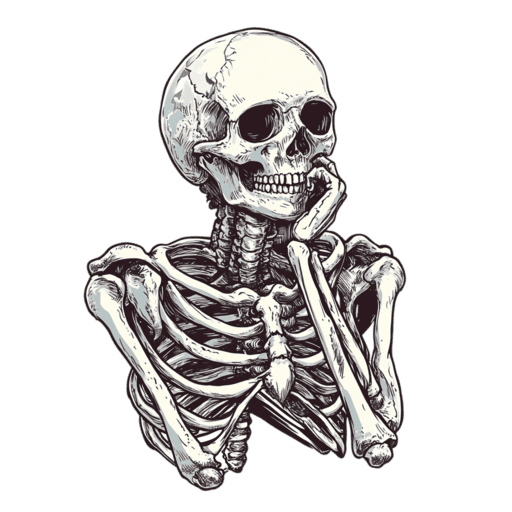
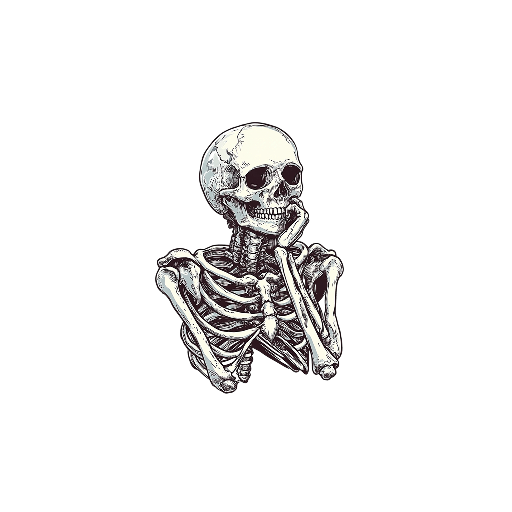
Adding timeOfDay & using transparent image as splash screen

Changed region(s): [[0.1562, 0.0312, 0.8125, 0.9688]]

diff --git a/app/index.tsx b/app/index.tsx
@@ -1,4 +1,3 @@
-
 import { Feather, FontAwesome6, Ionicons, MaterialCommunityIcons } from '@expo/vector-icons';
 import { LinearGradient } from 'expo-linear-gradient';
 import { useEffect, useRef, useState } from 'react';
@@ -45,6 +44,7 @@ const collapseScrollPadding = collapseHeight + 100
 export default function HomeScreen() {
     const [daysLeft, setDaysLeft] = useState(0)
     const [dateString, setDateString] = useState({ part1: "", part2: "" })
+    const [timeOfDay, setTimeOfDay] = useState<'morning' | 'afternoon' | 'evening' | ''>("")
     const scrollX = useSharedValue(SCREEN_WIDTH)
 
     const insets = useSafeAreaInsets()
@@ -213,19 +213,27 @@ export default function HomeScreen() {
             const difference = targetDate - nowTime;
 
             if (difference > 0) {
-                setDaysLeft(Math.floor(difference / (1000 * 60 * 60 * 24)));
+                setDaysLeft(Math.floor(difference / (1000 * 60 * 60 * 24)))
             } else {
-                setDaysLeft(0);
+                setDaysLeft(0)
             }
 
-            const dayName = daysOfWeek[now.getDay()];
-            const month = months[now.getMonth()];
-            const day = now.getDate();
-            const year = now.getFullYear();
+            const dayName = daysOfWeek[now.getDay()]
+            const month = months[now.getMonth()]
+            const day = now.getDate()
+            const year = now.getFullYear()
+            const hours = now.getHours()
 
-            const part1 = `${dayName} — ${month} ${day}${getOrdinalSuffix(day)} ${year}`;
-            setDateString({ part1, part2: " 📅" });
-        };
+            const part1 = `${dayName} — ${month} ${day}${getOrdinalSuffix(day)} ${year}`
+            setDateString({ part1, part2: " 📅" })
+            if (hours < 12) {
+                setTimeOfDay("morning")
+            } else if (hours < 18) {
+                setTimeOfDay("afternoon")
+            } else {
+                setTimeOfDay("evening")
+            }
+        }
 
         chatScrollViewRef.current?.scrollToEnd({ animated: false })
         notesScrollViewRef.current?.scrollToEnd({ animated: false })
@@ -282,9 +290,9 @@ export default function HomeScreen() {
                     
                     <Animated.View style={[styles.heroContainer, { top: insets.top + (0.47 * TOP_DASHBOARD_HEIGHT) }, contentOpacityStyle]}>
                         <View style={styles.greetingContainer}>
-                            <Text style={styles.greetingText}>Good morning, </Text>
+                            <Text style={styles.greetingText}>Good {timeOfDay}, </Text>
                             <View style={styles.profileCircle} />
-                            <Text style={styles.greetingName}> Alexey, </Text>
+                            <Text style={styles.greetingName}> Etin-osa, </Text>
                         </View>
                         <Text>
                             <Text style={styles.regularText}>It's </Text>
